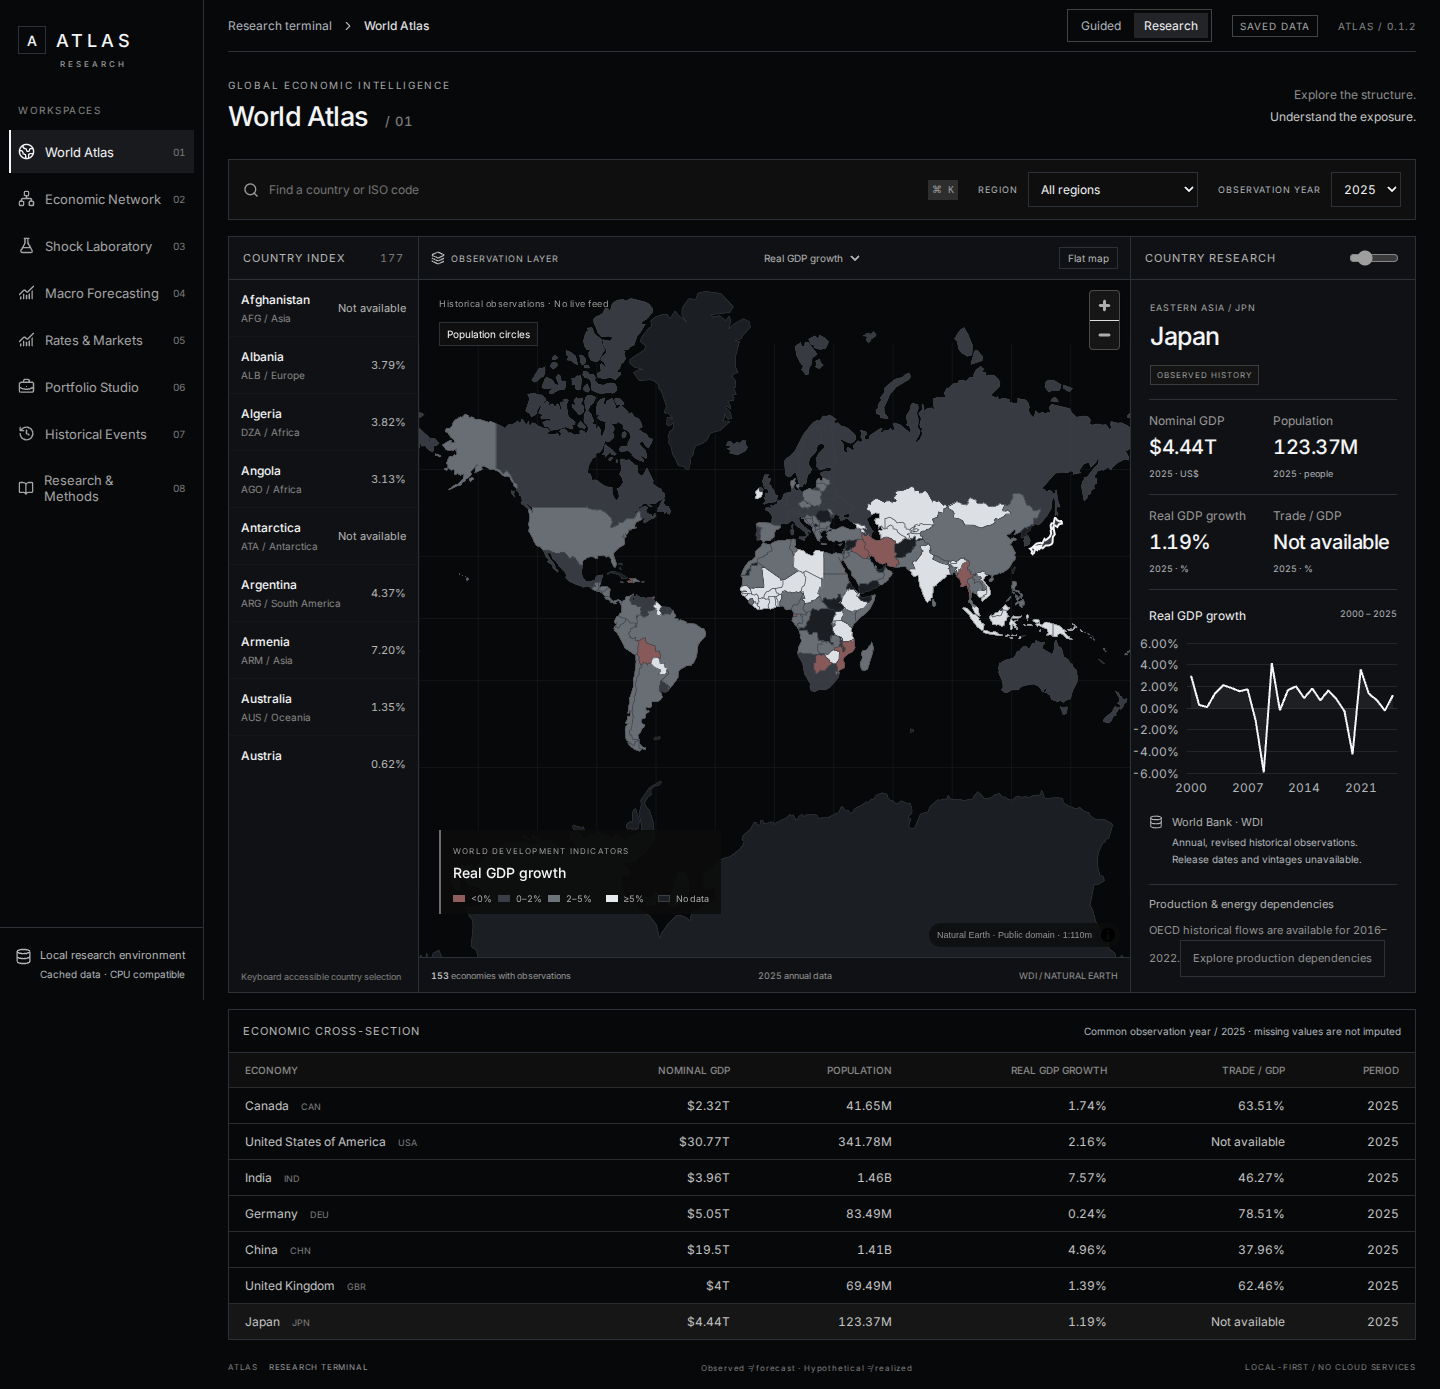
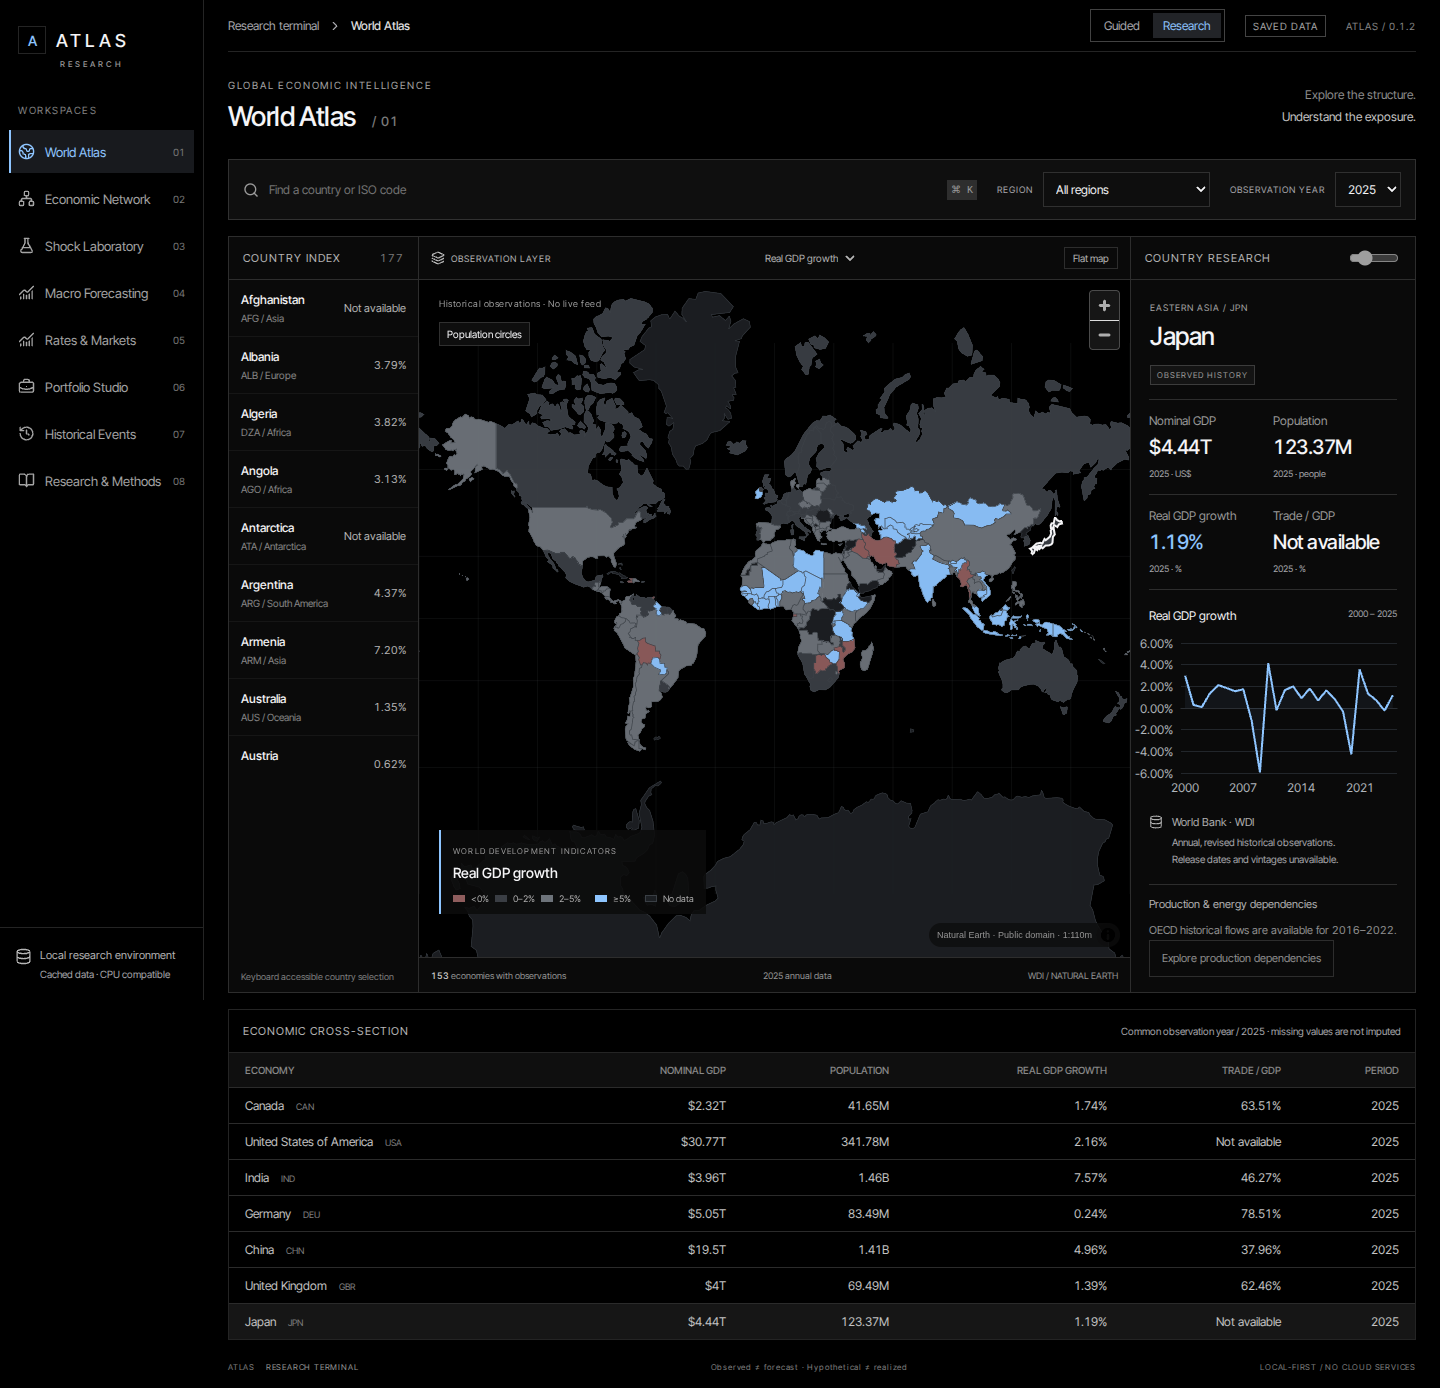
Test Python 3.13 in CI and match the portfolio accent.
The validate matrix installs 3.12 and 3.13 on every OS, and setup follows the interpreter on PATH so that selection is real. The UI uses bundled Inter Tight on black with one blue accent. Linux screenshots were regenerated by Playwright.

diff --git a/frontend/src/style.css b/frontend/src/style.css
@@ -1,19 +1,22 @@
 :root {
   font-family:
+    "Inter Tight",
     Inter,
     "Segoe UI",
     sans-serif;
-  color: #f4f5f7;
-  background: #07080a;
+  color: #f5f5f7;
+  background: #000000;
+  color-scheme: dark;
   font-synthesis: none;
   font-size: 14px;
   font-variant-numeric: tabular-nums;
-  --line: #2c3138;
-  --muted: #b1b6bc;
-  --accent: #f4f5f7;
+  --line: rgba(255, 255, 255, 0.14);
+  --muted: #a8a8ad;
+  --accent: #8ec5ff;
   --amber: var(--accent);
-  --panel: #101114;
-  --bg: #07080a;
+  --ink: #f5f5f7;
+  --panel: #0a0a0a;
+  --bg: #000000;
 }
 * {
   box-sizing: border-box;
@@ -111,7 +114,7 @@ small {
   flex-shrink: 0;
   overflow: hidden;
   border-right: 1px solid var(--line);
-  background: #07080a;
+  background: var(--bg);
   display: flex;
   flex-direction: column;
   position: sticky;
@@ -125,7 +128,7 @@ small {
   padding: 20px 18px;
   gap: 10px;
   text-decoration: none;
-  color: #f4f5f7;
+  color: var(--ink);
   letter-spacing: 0.22em;
   font-size: 18px;
   font-weight: 500;
@@ -180,8 +183,8 @@ small {
 }
 .rail nav button.active {
   background: #181a1e;
-  color: #f4f5f7;
-  box-shadow: inset 2px 0 #f4f5f7;
+  color: var(--accent);
+  box-shadow: inset 2px 0 var(--accent);
 }
 .rail-bottom {
   margin-top: auto;
@@ -389,7 +392,7 @@ h1 span {
 }
 .country.selected strong,
 .country.selected .country-value {
-  color: #f4f5f7;
+  color: var(--ink);
 }
 .index-note {
   margin-top: auto;
@@ -444,7 +447,7 @@ h1 span {
   pointer-events: none;
   background: #0c0c0cde;
   padding: 10px 12px;
-  border-left: 2px solid #6e6e6e;
+  border-left: 2px solid var(--accent);
 }
 .map-caption > span {
   font-size: 8px;
@@ -472,7 +475,7 @@ h1 span {
   background: #3a3e44;
 }
 .legend b {
-  background: #e7eaee;
+  background: #8ec5ff;
   margin-left: 8px;
 }
 .legend em {
@@ -1115,15 +1118,15 @@ td button {
   margin-top: 4px;
 }
 .primary {
-  background: #f4f5f7;
-  color: #787878;
-  border-color: #f4f5f7;
+  background: #8ec5ff;
+  color: #000000;
+  border-color: #8ec5ff;
   font-weight: 500;
   letter-spacing: 0.04em;
   margin-top: 8px;
 }
 .primary:hover {
-  background: #d7dbe0;
+  background: #b9d8ff;
 }
 .primary:disabled {
   opacity: 0.4;
@@ -1148,17 +1151,18 @@ td button {
 .stat strong {
   font-weight: 500;
   font-size: 23px;
-  color: #f4f5f7;
+  color: var(--ink);
   font-variant-numeric: tabular-nums;
 }
 .equation {
   padding: 28px 0;
   font:
-    22px Inter,
+    22px "Inter Tight",
+    Inter,
     "Segoe UI",
     sans-serif;
   letter-spacing: -0.03em;
-  color: #f4f5f7;
+  color: var(--ink);
 }
 .model-note {
   border-left: 2px solid #5d5d5d;

diff --git a/frontend/src/ScenarioStudio.tsx b/frontend/src/ScenarioStudio.tsx
@@ -496,8 +496,8 @@ export function ScenarioStudio({ onAdvanced }: { onAdvanced: () => void }) {
                         {
                           type: "line",
                           data: result.rounds.map((r) => r.total * 100),
-                          lineStyle: { color: "#f4f5f7", width: 3 },
-                          areaStyle: { color: "#f4f5f7", opacity: 0.08 },
+                          lineStyle: { color: "#8ec5ff", width: 3 },
+                          areaStyle: { color: "#8ec5ff", opacity: 0.08 },
                         },
                       ],
                     }}
@@ -560,8 +560,8 @@ export function ScenarioStudio({ onAdvanced }: { onAdvanced: () => void }) {
                             r.within_price_domain ? r.total * 100 : null,
                           ),
                           itemStyle: {
-                            color: "#8f5d5d",
-                            borderRadius: [4, 4, 0, 0],
+                            color: "#8ec5ff",
+                            borderRadius: 0,
                           },
                           barMaxWidth: 36,
                         },
@@ -611,7 +611,7 @@ export function ScenarioStudio({ onAdvanced }: { onAdvanced: () => void }) {
                           <i
                             style={{
                               width: `${(Math.abs(c.total) / (Math.abs(result.countries[0].total) || 1)) * 100}%`,
-                              background: c.total < 0 ? "#8f5d5d" : "#f4f5f7",
+                              background: c.total < 0 ? "#8f5d5d" : "#8ec5ff",
                             }}
                           />
                         </div>

diff --git a/frontend/src/WorldMap.tsx b/frontend/src/WorldMap.tsx
@@ -41,7 +41,7 @@ export function WorldMap({
             {
               id: "ocean",
               type: "background",
-              paint: { "background-color": "#07080a" },
+              paint: { "background-color": "#000000" },
             },
           ],
         },
@@ -108,7 +108,7 @@ export function WorldMap({
         type: "line",
         source: "world",
         filter: ["==", "id", "JPN"],
-        paint: { "line-color": "#f4f5f7", "line-width": 2 },
+        paint: { "line-color": "#f5f5f7", "line-width": 2 },
       });
       m.addLayer({
         id: "hover",
@@ -215,7 +215,7 @@ export function WorldMap({
                 ? "#3a3e44"
                 : v < 5
                   ? "#6d737a"
-                  : "#e7eaee";
+                  : "#8ec5ff";
         else {
           const t =
             indicator === "NY.GDP.MKTP.CD"
@@ -225,7 +225,7 @@ export function WorldMap({
                 : v / 180;
           color =
             t > 0.8
-              ? "#e7eaee"
+              ? "#8ec5ff"
               : t > 0.65
                 ? "#8e949b"
                 : t > 0.45
@@ -298,8 +298,8 @@ export function WorldMap({
               getPosition: (c) => [c.longitude, c.latitude],
               getRadius: (c) =>
                 Math.sqrt(c.indicators["SP.POP.TOTL"].value!) * 15,
-              getFillColor: [244, 245, 247, 90],
-              getLineColor: [244, 245, 247, 170],
+              getFillColor: [142, 197, 255, 90],
+              getLineColor: [142, 197, 255, 170],
               stroked: true,
               lineWidthMinPixels: 1,
               pickable: false,

diff --git a/frontend/src/ResearchWorkspaces.tsx b/frontend/src/ResearchWorkspaces.tsx
@@ -177,7 +177,7 @@ export function StructuralLab({ network = false }: { network?: boolean }) {
                   splitLine: { lineStyle: { color: "#2a2e33" } },
                 },
                 series: [
-                  ["Direct", "direct", "#f4f5f7"],
+                  ["Direct", "direct", "#8ec5ff"],
                   ["First-order", "first_order", "#8e949b"],
                   ["Higher-order", "higher_order", "#c5c8cc"],
                 ].map(([name, key, color]) => ({
@@ -598,7 +598,7 @@ export function PortfolioLab() {
                     type: "line",
                     showSymbol: false,
                     data: result.held_out.wealth,
-                    lineStyle: { color: "#f4f5f7" },
+                    lineStyle: { color: "#8ec5ff" },
                   },
                 ],
               }}
@@ -698,7 +698,7 @@ export function ForecastLab() {
                     name: "Observed (revised)",
                     type: "line",
                     data: report.test_actual,
-                    lineStyle: { color: "#f4f5f7" },
+                    lineStyle: { color: "#8ec5ff" },
                   },
                   {
                     name: "Prediction",
@@ -832,7 +832,7 @@ export function HistoricalLab({
               type: "bar",
               data: series.map((o) => ({
                 value: o.value,
-                itemStyle: { color: o.year === event ? "#f4f5f7" : "#5c636a" },
+                itemStyle: { color: o.year === event ? "#8ec5ff" : "#5c636a" },
               })),
             },
           ],

diff --git a/frontend/src/main.tsx b/frontend/src/main.tsx
@@ -16,8 +16,8 @@ import {
 import { WorldMap } from "./WorldMap";
 import { Chart } from "./Chart";
 import { api, Country, Observation, format, indicators } from "./types";
-import "@fontsource/inter/400.css";
-import "@fontsource/inter/500.css";
+import "@fontsource/inter-tight/400.css";
+import "@fontsource/inter-tight/500.css";
 import "./style.css";
 import "./guided.css";
 import { GuidedAtlas } from "./GuidedExperience";
@@ -555,9 +555,9 @@ function App() {
                                       data: series.map((o) => o.value),
                                       connectNulls: false,
                                       showSymbol: false,
-                                      lineStyle: { color: "#f4f5f7", width: 2 },
+                                      lineStyle: { color: "#8ec5ff", width: 2 },
                                       areaStyle: {
-                                        color: "#f4f5f7",
+                                        color: "#8ec5ff",
                                         opacity: 0.06,
                                       },
                                     },

diff --git a/frontend/src/ExposureMap.tsx b/frontend/src/ExposureMap.tsx
@@ -26,7 +26,7 @@ export function ExposureMap({
           {
             id: "ocean",
             type: "background",
-            paint: { "background-color": "#07080a" },
+            paint: { "background-color": "#000000" },
           },
         ],
       },
@@ -127,7 +127,7 @@ export function ExposureMap({
       expression.push(
         code,
         magnitude > 0.05
-          ? "#e7eaee"
+          ? "#8ec5ff"
           : magnitude > 0.01
             ? "#8e949b"
             : magnitude > 0.001
@@ -155,7 +155,7 @@ export function ExposureMap({
         {scenario
           ? "Absolute modeled country cost change"
           : "Supplier inputs as a share of the selected buyer’s gross output"}
-        : light &gt;5%; mid &gt;1%; dim &gt;0.1%; faint &gt;0. Near-black
+        : strongest &gt;5%; mid &gt;1%; dim &gt;0.1%; faint &gt;0. Near-black
         includes zero and unavailable. Exact values and direction appear in the
         tables.{" "}
         {profile &&

diff --git a/frontend/index.html b/frontend/index.html
@@ -1,1 +1,1 @@
-<!doctype html><html lang="en"><head><meta charset="UTF-8"/><meta name="viewport" content="width=device-width, initial-scale=1.0"/><meta name="theme-color" content="#07080a"/><title>ATLAS · Global Economic Intelligence</title><link rel="icon" href="/favicon.svg"/></head><body><div id="root"></div><script type="module" src="/src/main.tsx"></script></body></html>
+<!doctype html><html lang="en"><head><meta charset="UTF-8"/><meta name="viewport" content="width=device-width, initial-scale=1.0"/><meta name="theme-color" content="#000000"/><title>ATLAS · Global Economic Intelligence</title><link rel="icon" href="/favicon.svg"/></head><body><div id="root"></div><script type="module" src="/src/main.tsx"></script></body></html>

diff --git a/frontend/src/Chart.tsx b/frontend/src/Chart.tsx
@@ -27,9 +27,13 @@ export function Chart({
   useEffect(() => {
     const chart = echarts.init(el.current!, undefined, { renderer: "svg" });
     chart.setOption({
-      color: ["#f4f5f7", "#9aa1a8", "#6e757c", "#6e757c"],
+      color: ["#8ec5ff", "#9aa1a8", "#6e757c", "#6e757c"],
       backgroundColor: "transparent",
-      textStyle: { fontFamily: "Inter, sans-serif", color: "#b1b6bc", fontSize: 12 },
+      textStyle: {
+        fontFamily: "\"Inter Tight\", Inter, sans-serif",
+        color: "#a8a8ad",
+        fontSize: 12,
+      },
       animation: false,
       ...option,
     });

diff --git a/frontend/src/GuidedExperience.tsx b/frontend/src/GuidedExperience.tsx
@@ -351,7 +351,7 @@ export function GuidedAtlas({
                         data: series.map((o) => o.value),
                         showSymbol: false,
                         connectNulls: false,
-                        lineStyle: { color: "#f4f5f7", width: 2 },
+                        lineStyle: { color: "#8ec5ff", width: 2 },
                       },
                     ],
                   }}

diff --git a/frontend/src/ReleaseWorkspaces.tsx b/frontend/src/ReleaseWorkspaces.tsx
@@ -68,7 +68,7 @@ export function TreasuryCurves() {
                   type: "line",
                   data: curve.points.map((p: any) => p.yield_percent),
                   connectNulls: false,
-                  lineStyle: { color: "#f4f5f7" },
+                  lineStyle: { color: "#8ec5ff" },
                 },
               ],
             }}

diff --git a/frontend/src/studio.css b/frontend/src/studio.css
@@ -75,9 +75,9 @@
   padding: 11px 18px;
 }
 .studio-tabs button[aria-pressed="true"] {
-  border-color: #f4f5f7;
+  border-color: #8ec5ff;
   background: transparent;
-  color: #f4f5f7;
+  color: #8ec5ff;
 }
 .studio-tabs > span {
   margin-left: auto;

diff --git a/frontend/src/guided.css b/frontend/src/guided.css
@@ -12,7 +12,7 @@
 }
 .experience-switch button[aria-pressed="true"] {
   background: #222428;
-  color: #f4f5f7;
+  color: #8ec5ff;
 }
 .guided-mode .page-heading {
   height: 82px;
